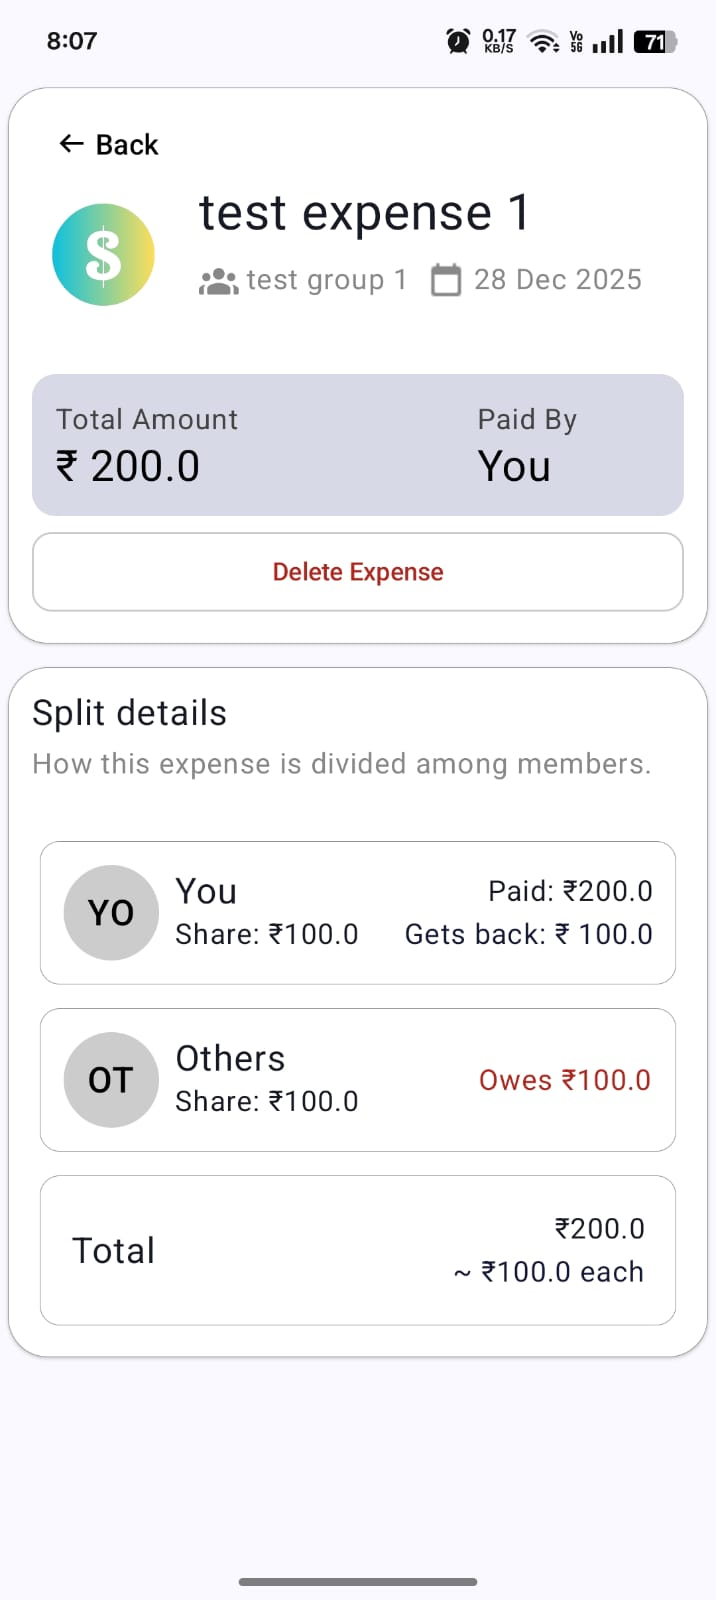
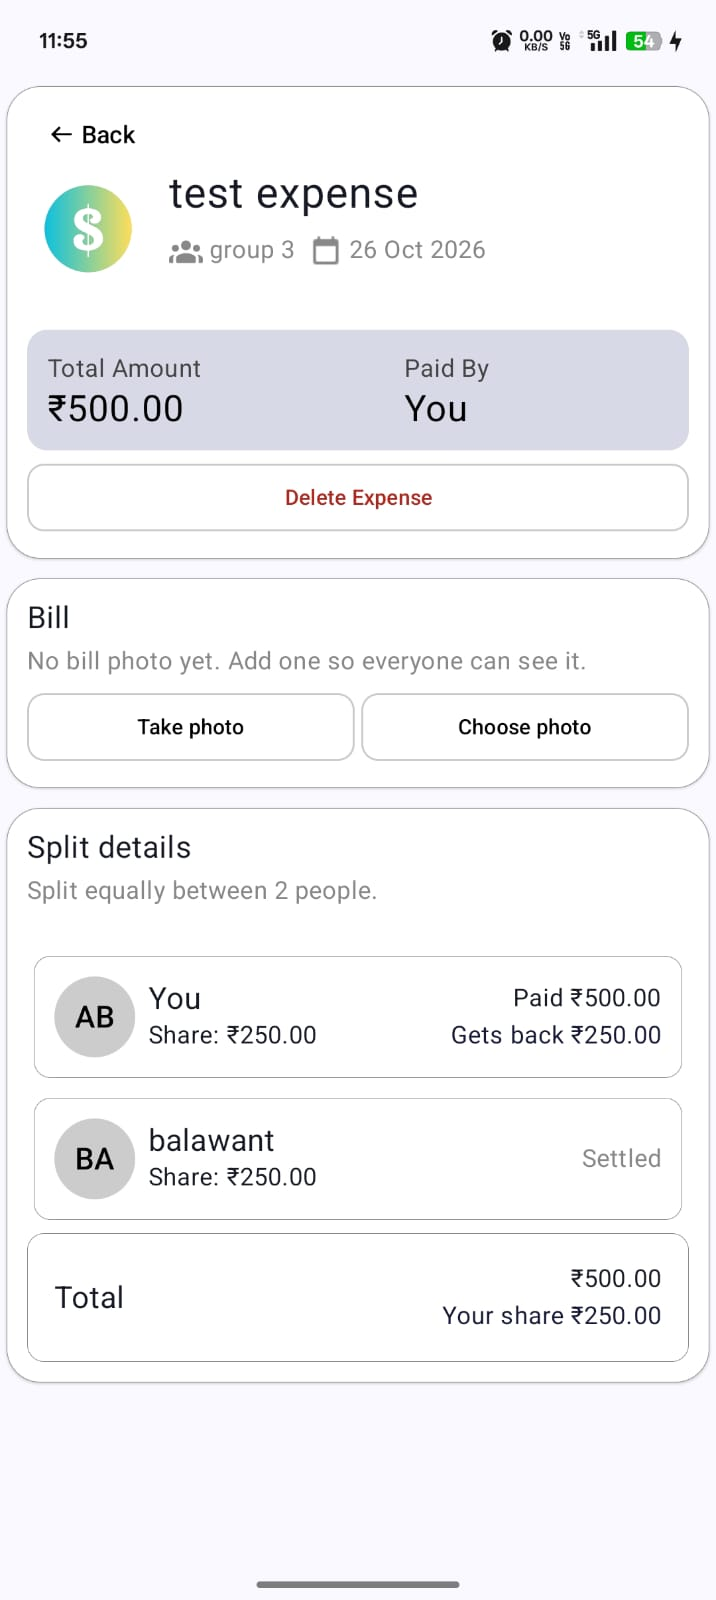
Update README for debt simplification and new screenshots
Describe the greedy debt simplification, refresh the expense and group
detail screenshots, and add the create group, add expense and record
payment dialogs.

diff --git a/README.md b/README.md
@@ -1,6 +1,6 @@
 # SplitEase: An Expense Splitting and Tracking Application
 
-SplitEase is a full-stack Android application for managing and splitting group expenses. Users create groups, add shared expenses (split equally or in custom ways), attach a photo of the bill, and settle up with one payment per person based on net balances across all their groups. The app emphasizes secure authentication, accurate balance calculation, and real-time updates.
+SplitEase is a full-stack Android application for managing and splitting group expenses. Users create groups, add shared expenses (split equally or in custom ways), attach a photo of the bill, and settle up in as few payments as possible thanks to greedy debt simplification. The app emphasizes secure authentication, accurate balance calculation, and real-time updates.
 
 ## App Screenshots
 <p align="center">
@@ -20,18 +20,24 @@ SplitEase is a full-stack Android application for managing and splitting group e
    <img src="screenshots/profileScreen.jpeg" width="220"/>
 </p>
 
+<p align="center">
+  <img src="screenshots/createNewGroupDialog.jpeg" width="220"/>
+  <img src="screenshots/addNewExpenseDialog.jpeg" width="220"/>
+  <img src="screenshots/settlementDialog.jpeg" width="220"/>
+</p>
+
 
 
 ## Key Features
 - **Collaborative Expense Management**: Full-stack system for group expense tracking and ledger management using Spring Boot and PostgreSQL.
 - **Flexible Splits**: Split an expense equally between everyone or chosen members, or by exact amounts, percentages or shares. Shares are always rounded so they add up exactly to the expense amount.
 - **Bill Photos with On-Device Amount Reading**: Attach a photo of the bill (camera or gallery) when adding an expense, or later from the expense's page. Google ML Kit reads the bill **on the phone, offline**, and a custom parser picks out the total (Grand Total / Net Amount over Subtotal, GST, Cash, Change…) to fill in the amount for the user to confirm. Everyone in the group can view the bill full screen with pinch to zoom; only the payer can attach, replace or remove it.
-- **Settlement Engine**: Computes net peer-to-peer balances across all of a user's groups, so each pair of people settles with a single payment.
+- **Debt Simplification**: A greedy algorithm settles each group in at most n − 1 payments for n members and cuts out middlemen: if Bob owes Alice and Carol owes Bob, Carol pays Alice directly. What two people owe each other across their shared groups is netted into a single payment, and nobody is asked to pay someone outside their groups.
 - **Clear Expense Details**: Every member's share, who paid, and who has settled, with all amounts shown to 2 decimal places.
 - **Security Framework**: JWT (JSON Web Tokens) for stateless authentication and BCrypt hashing for passwords. Bill photos are only served to members of the expense's group.
 - **Modern Android Architecture**: Reactive UI built with Jetpack Compose following MVVM, with an app-wide data cache so screens don't refetch on every tab switch, plus pull to refresh.
 - **Real-time Event Notifications**: Firebase Cloud Messaging (FCM) push notifications for new groups and expenses.
-- **Tested**: JUnit suites on both sides: controller, service and repository tests plus end-to-end flows on the backend, and ViewModel, data cache and bill parser tests on Android.
+- **Tested**: JUnit suites on both sides: controller, service and repository tests, randomized tests of the debt simplifier and end-to-end flows on the backend, and ViewModel, data cache and bill parser tests on Android.
 
 
 ## Tech Stack
@@ -54,6 +60,14 @@ SplitEase is a full-stack Android application for managing and splitting group e
 - JPA / Hibernate
 - Firebase Admin SDK (push notifications)
 - JUnit 5, Mockito & H2 (tests)
+
+## How Debt Simplification Works
+1. Each member's net balance in a group is worked out from the group's open expense splits and the payments recorded in it (positive = owed money, negative = owes money).
+2. `DebtSimplifier` repeatedly has the member who owes the most pay the member who is owed the most, as much as one of them needs, until everyone is at zero. Every payment clears at least one person, so a group of n people never needs more than n − 1 payments.
+3. Each person's payments across all their groups are then netted per counterpart, so two people always settle with one payment, even if they share several groups.
+4. A recorded payment is stored per group. Once everyone in a group is square, its expenses are marked settled.
+
+For example, four friends who each paid for one dinner split four ways, plus one drink bought for a friend, have 13 debts between pairs but need only **one** payment.
 
 ## How Bill Reading Works
 1. The photo is decoded upright (using its EXIF orientation) at up to 2048 px and compressed to a JPEG of a few hundred KB for upload.
@@ -119,8 +133,8 @@ All endpoints except `/register` and `/login` require an `Authorization: Bearer 
 | GET | `/expense/{id}/receipt?size=thumb\|full` | View the bill photo (group members) |
 | DELETE | `/expense/{id}/receipt` | Remove the bill photo (payer only) |
 | GET | `/activity` | Expense history with each member's share |
-| GET | `/settlements/payables` | Who the user owes, netted across groups |
-| POST | `/settlements` | Record a payment |
+| GET | `/settlements/payables` | Who the user should pay, after simplifying debts |
+| POST | `/settlements` | Record a payment (rejected with 409 if balances changed since they were loaded) |
 
 ## Project Structure
 ```bash
@@ -136,7 +150,7 @@ SplitEase/
 ├── SplitEase-Spring-Backend/        # Spring Boot backend (src/main/java/com/example/splitease/)
 │   ├── config/                      # Security, JWT filter, Firebase
 │   ├── controller/                  # REST controllers
-│   ├── service/                     # Business logic (expenses, settlements, receipts…)
+│   ├── service/                     # Business logic (expenses, debt simplification, receipts…)
 │   ├── repo/                        # JPA repositories
 │   ├── models/                      # Entities
 │   └── requestAndResponse/          # Request and response DTOs
